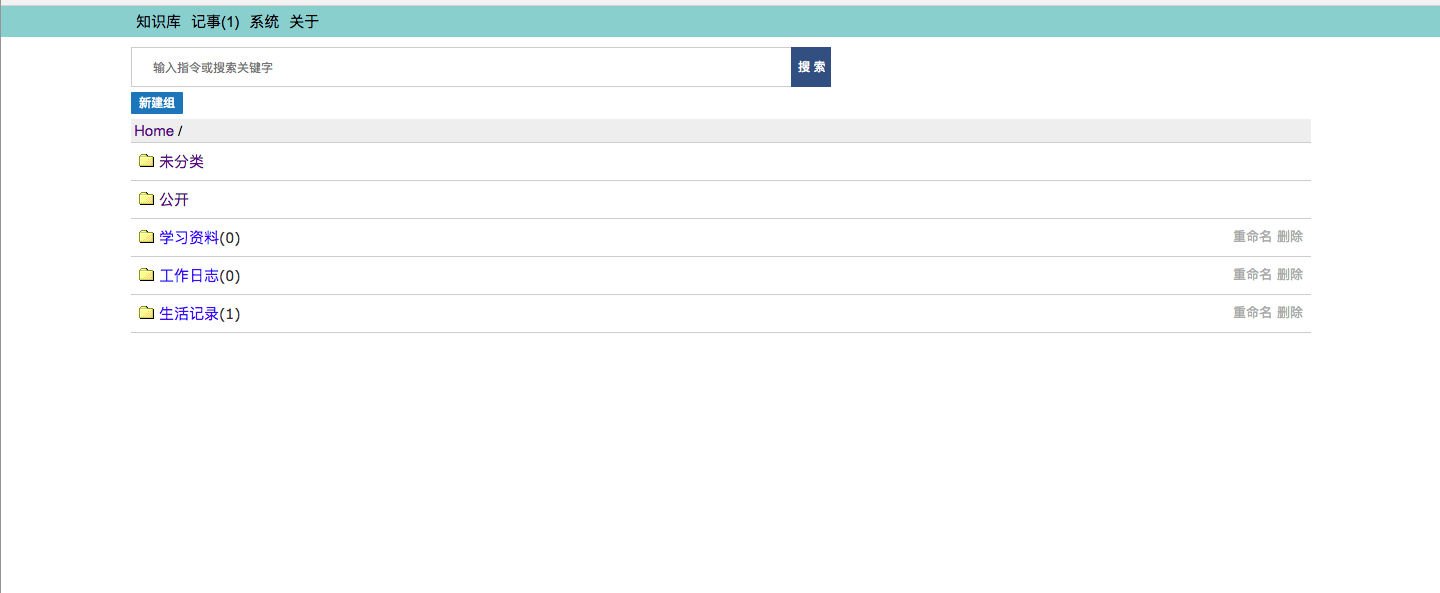
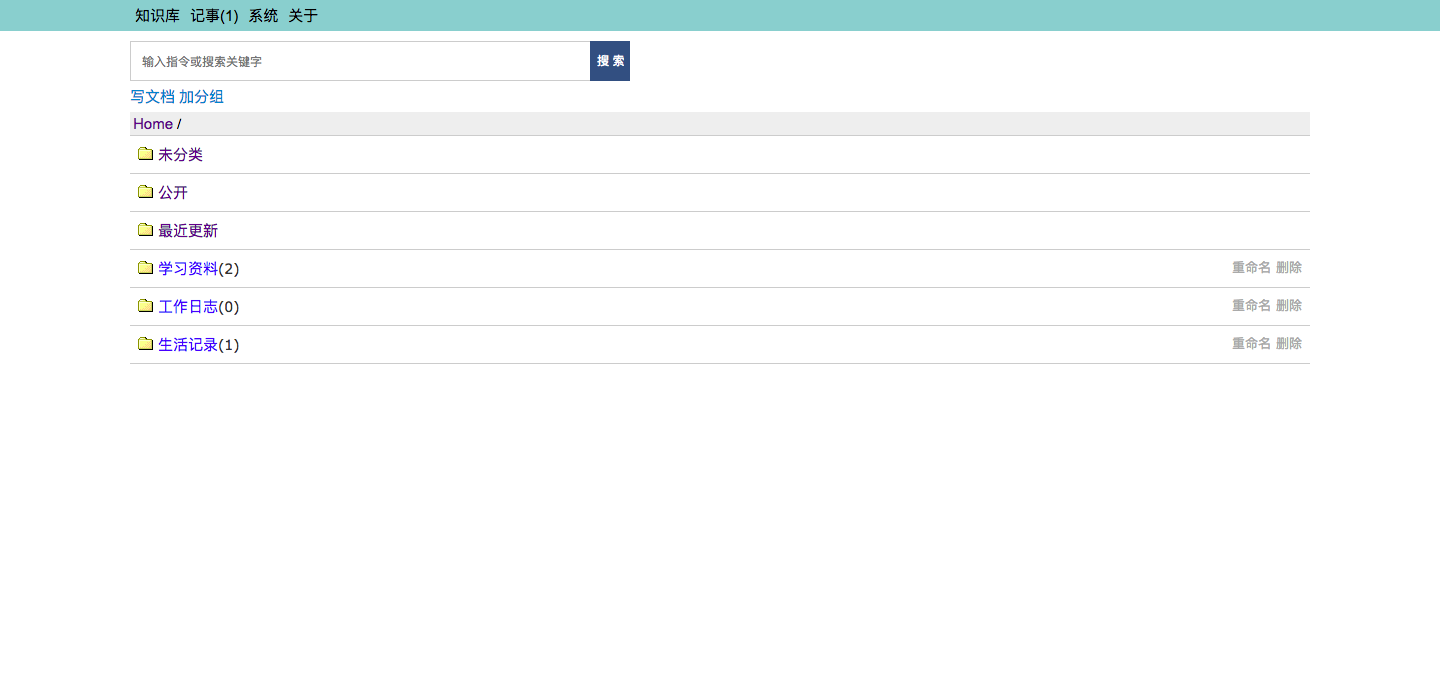
更新样式

Changed region(s): [[0.0, 0.0, 1.0, 0.5464], [0.8438, 0.3642, 0.9062, 0.5464]]

diff --git a/handlers/file/view.html b/handlers/file/view.html
@@ -108,6 +108,10 @@ img {
     <div class="col-md-12" style="padding-bottom: 5px;">
         {% if _has_login %}
         <div class="left" style="float: left;">
+            <a class="link" href="/file/add">写文档</a>
+            <a class="link prompt-btn" message="分组名" 
+                    action="/file/add?type=group&parent_id={{file_id}}&name=">加分组</a>
+            <!--
             {% if show_add_file %}
             <input type="button" class="link-btn" value="新建" message="资料名" action="" href="/file/add?parent_id={{file_id}}"/>
             {% end %}
@@ -115,6 +119,7 @@ img {
             <input type="button" class="prompt-btn" value="新建组" message="分组名" 
             action="/file/add?type=group&parent_id={{file_id}}&name="/>
             {% end %}
+            -->
         </div>
         {% end %}
     </div>

diff --git a/static/css/common.css b/static/css/common.css
@@ -68,6 +68,10 @@ a:hover {
     background-color: red;
 }
 
+.prompt-btn:hover {
+    cursor: pointer;
+}
+
 p,li,a {
     font-family: "Open Sans",Arial,Helvetica,sans-senif,"Microsoft Yahei",SimSun,"宋体";
 }
@@ -468,6 +472,11 @@ li.menu-item:hover {
     background: #ccc;
 }
 
+.link {
+    /* color: #37a; */
+    color: #08c;
+}
+
 /** file-list样式 **/
 .tool-div {
     font-size: medium;
@@ -674,7 +683,7 @@ li.menu-item:hover {
     padding-left: 10px;
     padding-right: 40px;
     width: 100%;
-    max-width: 700px;
+    max-width: 500px;
     outline: none;
     box-sizing: border-box;
 }

diff --git a/README.md b/README.md
@@ -94,67 +94,8 @@ PS：目前本项目主要目标人群是个人，提供有限的多用户支持
 - 数据库结构自动更新(xtables.py)
 - 支持纯ASCII码文件系统（上传文件名会经过urlencode转码）
 
-
-### 开发框架/软件库
-
-具体版本见`requirements.txt`
-
-- webpy(修改版，xnote内置)
-- tornado template(修改版，xnote内置)
-- sqlite3 (Python自带文件型数据库)
-- psutil(可选，采集系统运行数据)
-- comtypes(可选，用于调用微软语音API)
-
-### 前端
-
-- jquery
-- marked(markdown解析器)
-- qrcode 二维码生成器
-- csv.js
-- jsdiff
-- codemirror
-
-## 系统架构
-
-### 目录结构
-```
-xnote
-|-- lib/            # 第三方类库，程序启动时添加到sys.path中
-|-- static/         # 静态文件
-|-- handlers/       # http请求处理器目录，功能实现大部分在这里
-|   |-- system/     # 系统功能目录
-|   |-- file/       # 资料功能目录
-|   |-- tools/      # 工具目录
-|   |-- api/        # 系统接口，返回JSON格式，供页面、定时任务、搜索调用
-|   |-- ...         # 其他目录
-|-- tests/          # 测试用例
-|-- app.py          # 程序入口
-|-- xconfig.py      # 程序配置
-|-- xmanager.py     # handlers管理器，负责模块加载，注册URL，以及定时任务触发
-|-- xauth.py        # 权限控制
-|-- xtables.py      # 数据库表结构，自动建表
-|-- xtemplate.py    # view渲染接口
-|-- xutils.py       # 工具类统一入口
-|-- autoreload.py   # 监控文件变更自动reload，主要用于调试，生产环境可以关闭
-
-```
-
-### 层次架构
-
-![架构图](https://gitee.com/xupingmao/xnote/raw/master/screenshots/architecture.png)
-
-### 扩展
-
-在handlers目录下添加python程序，比如test.py
-
-```py
-class handler:    
-    def GET(self):
-        return "success"
-# 如果配置了xurls全局变量，xnote会注册指定的url pattern否则按照相对handlers的路径注册
-xurls = ("/test", handler)
-# 启动xnote，访问浏览器localhost:1234/test就会看到success
-```
+## 相关文档
+- [系统架构](./docs/architecture.md)
 
 ## 协议
 

diff --git a/docs/architecture.md b/docs/architecture.md
@@ -1,0 +1,62 @@
+## 系统架构
+
+### 目录结构
+```
+xnote
+|-- lib/            # 第三方类库，程序启动时添加到sys.path中
+|-- static/         # 静态文件
+|-- handlers/       # http请求处理器目录，功能实现大部分在这里
+|   |-- system/     # 系统功能目录
+|   |-- file/       # 资料功能目录
+|   |-- tools/      # 工具目录
+|   |-- api/        # 系统接口，返回JSON格式，供页面、定时任务、搜索调用
+|   |-- ...         # 其他目录
+|-- tests/          # 测试用例
+|-- app.py          # 程序入口
+|-- xconfig.py      # 程序配置
+|-- xmanager.py     # handlers管理器，负责模块加载，注册URL，以及定时任务触发
+|-- xauth.py        # 权限控制
+|-- xtables.py      # 数据库表结构，自动建表
+|-- xtemplate.py    # view渲染接口
+|-- xutils.py       # 工具类统一入口
+|-- autoreload.py   # 监控文件变更自动reload，主要用于调试，生产环境可以关闭
+
+```
+
+### 层次架构
+
+![架构图](https://gitee.com/xupingmao/xnote/raw/master/screenshots/architecture.png)
+
+
+
+## 开发框架/软件库
+
+具体版本见`requirements.txt`
+
+- webpy(修改版，xnote内置)
+- tornado template(修改版，xnote内置)
+- sqlite3 (Python自带文件型数据库)
+- psutil(可选，采集系统运行数据)
+- comtypes(可选，用于调用微软语音API)
+
+## 前端
+
+- jquery
+- marked(markdown解析器)
+- qrcode 二维码生成器
+- csv.js
+- jsdiff
+- codemirror
+
+### 扩展
+
+在handlers目录下添加python程序，比如test.py
+
+```py
+class handler:    
+    def GET(self):
+        return "success"
+# 如果配置了xurls全局变量，xnote会注册指定的url pattern否则按照相对handlers的路径注册
+xurls = ("/test", handler)
+# 启动xnote，访问浏览器localhost:1234/test就会看到success
+```
